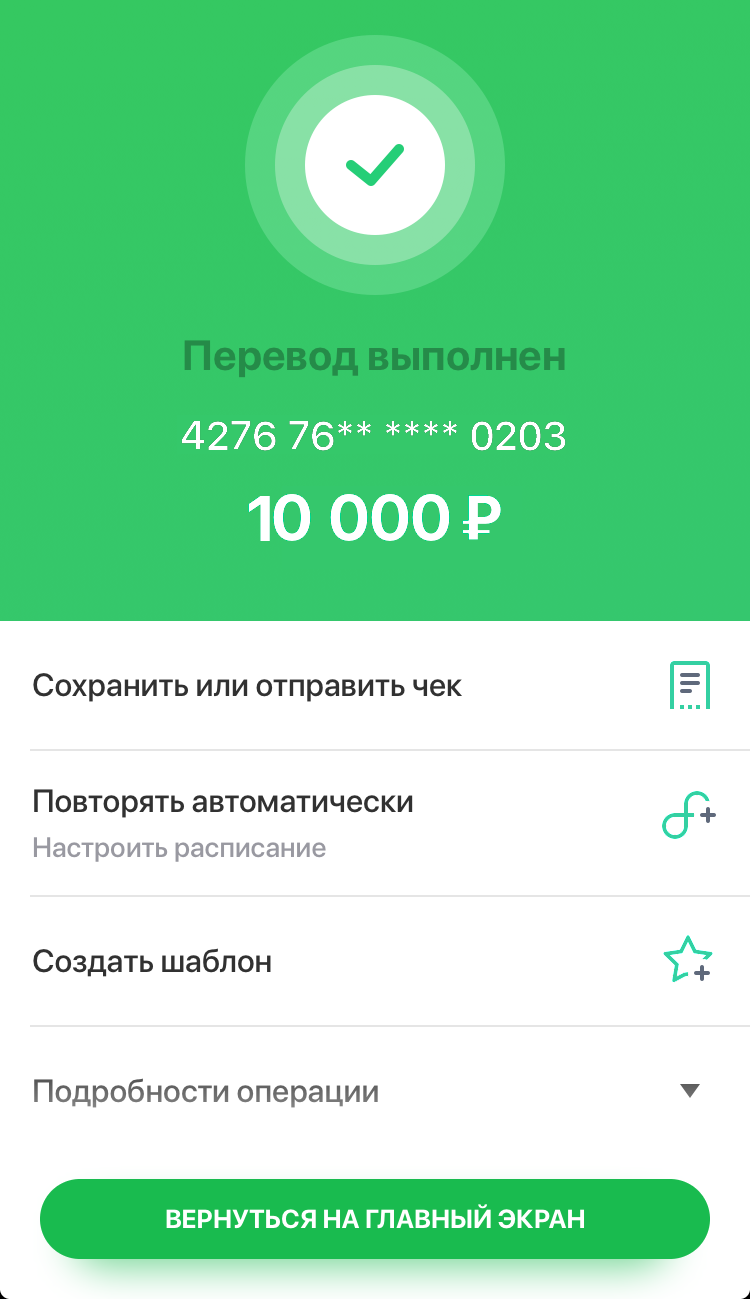
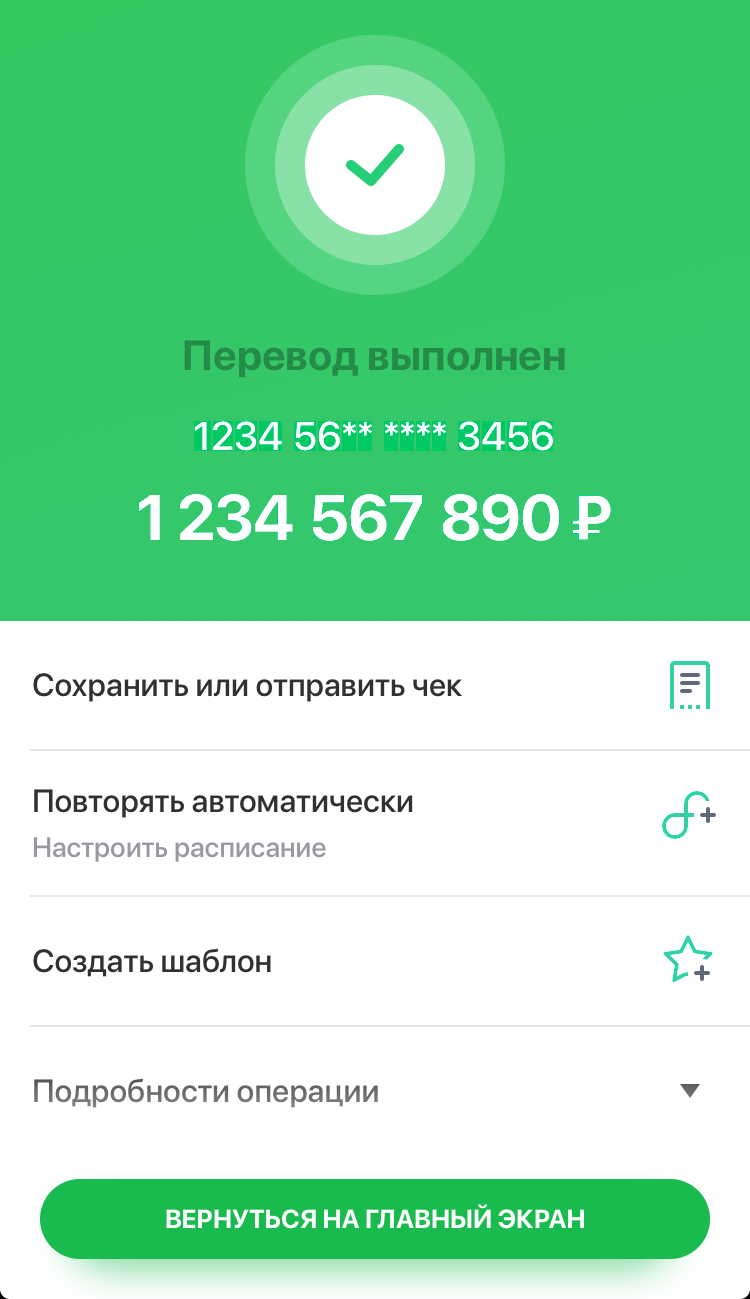
sber

Changed region(s): [[0.2453, 0.3079, 0.828, 0.4311], [0.184, 0.3695, 0.2147, 0.4311]]

diff --git a/sberdrawer.py b/sberdrawer.py
@@ -12,7 +12,7 @@ CARDDIGITS = {}
 CARDSTAR = Image.open('fonts/sberbank/card/star.png')
 
 # SUMIMG
-for i in range(0, 6):
+for i in range(0, 10):
 	sumimg = Image.open('fonts/sberbank/sum/' + str(i) + '.png')
 	SUMDIGITS.update({str(i):sumimg})
 
@@ -64,7 +64,7 @@ def card(number):
 	space = 10
 	imgwidth = 0
 	imgheight = 30 # maximal crazy
-	spacing = 3
+	spacing = 2
 	x = 0
 	# Calculate width of image
 	for digit in number:
@@ -78,13 +78,13 @@ def card(number):
 	# Draw
 	for digit in number:
 		if digit == '*':
-			canvas.paste(CARDSTAR, box=(x, imgheight - CARDSTAR.height - 15), mask=CARDSTAR)
+			canvas.paste(CARDSTAR, box=(x, 0), mask=CARDSTAR)
 			x += CARDSTAR.width + spacing
 		elif digit == ' ':
 			x += space
 		else:
 			digit = CARDDIGITS[digit]
-			canvas.paste(digit, box=(x, imgheight - digit.height), mask=digit)
+			canvas.paste(digit, box=(x, 0), mask=digit)
 			x += digit.width + spacing
 	return canvas
 
@@ -105,4 +105,4 @@ def draw(amount, cardnum, debug=False):
 		return ('temp.PNG', output)
 
 if __name__ == "__main__":
-	draw(10000, 4276761411120203, debug=True)
+	draw(1234567890, 1234567890123456, debug=True)
